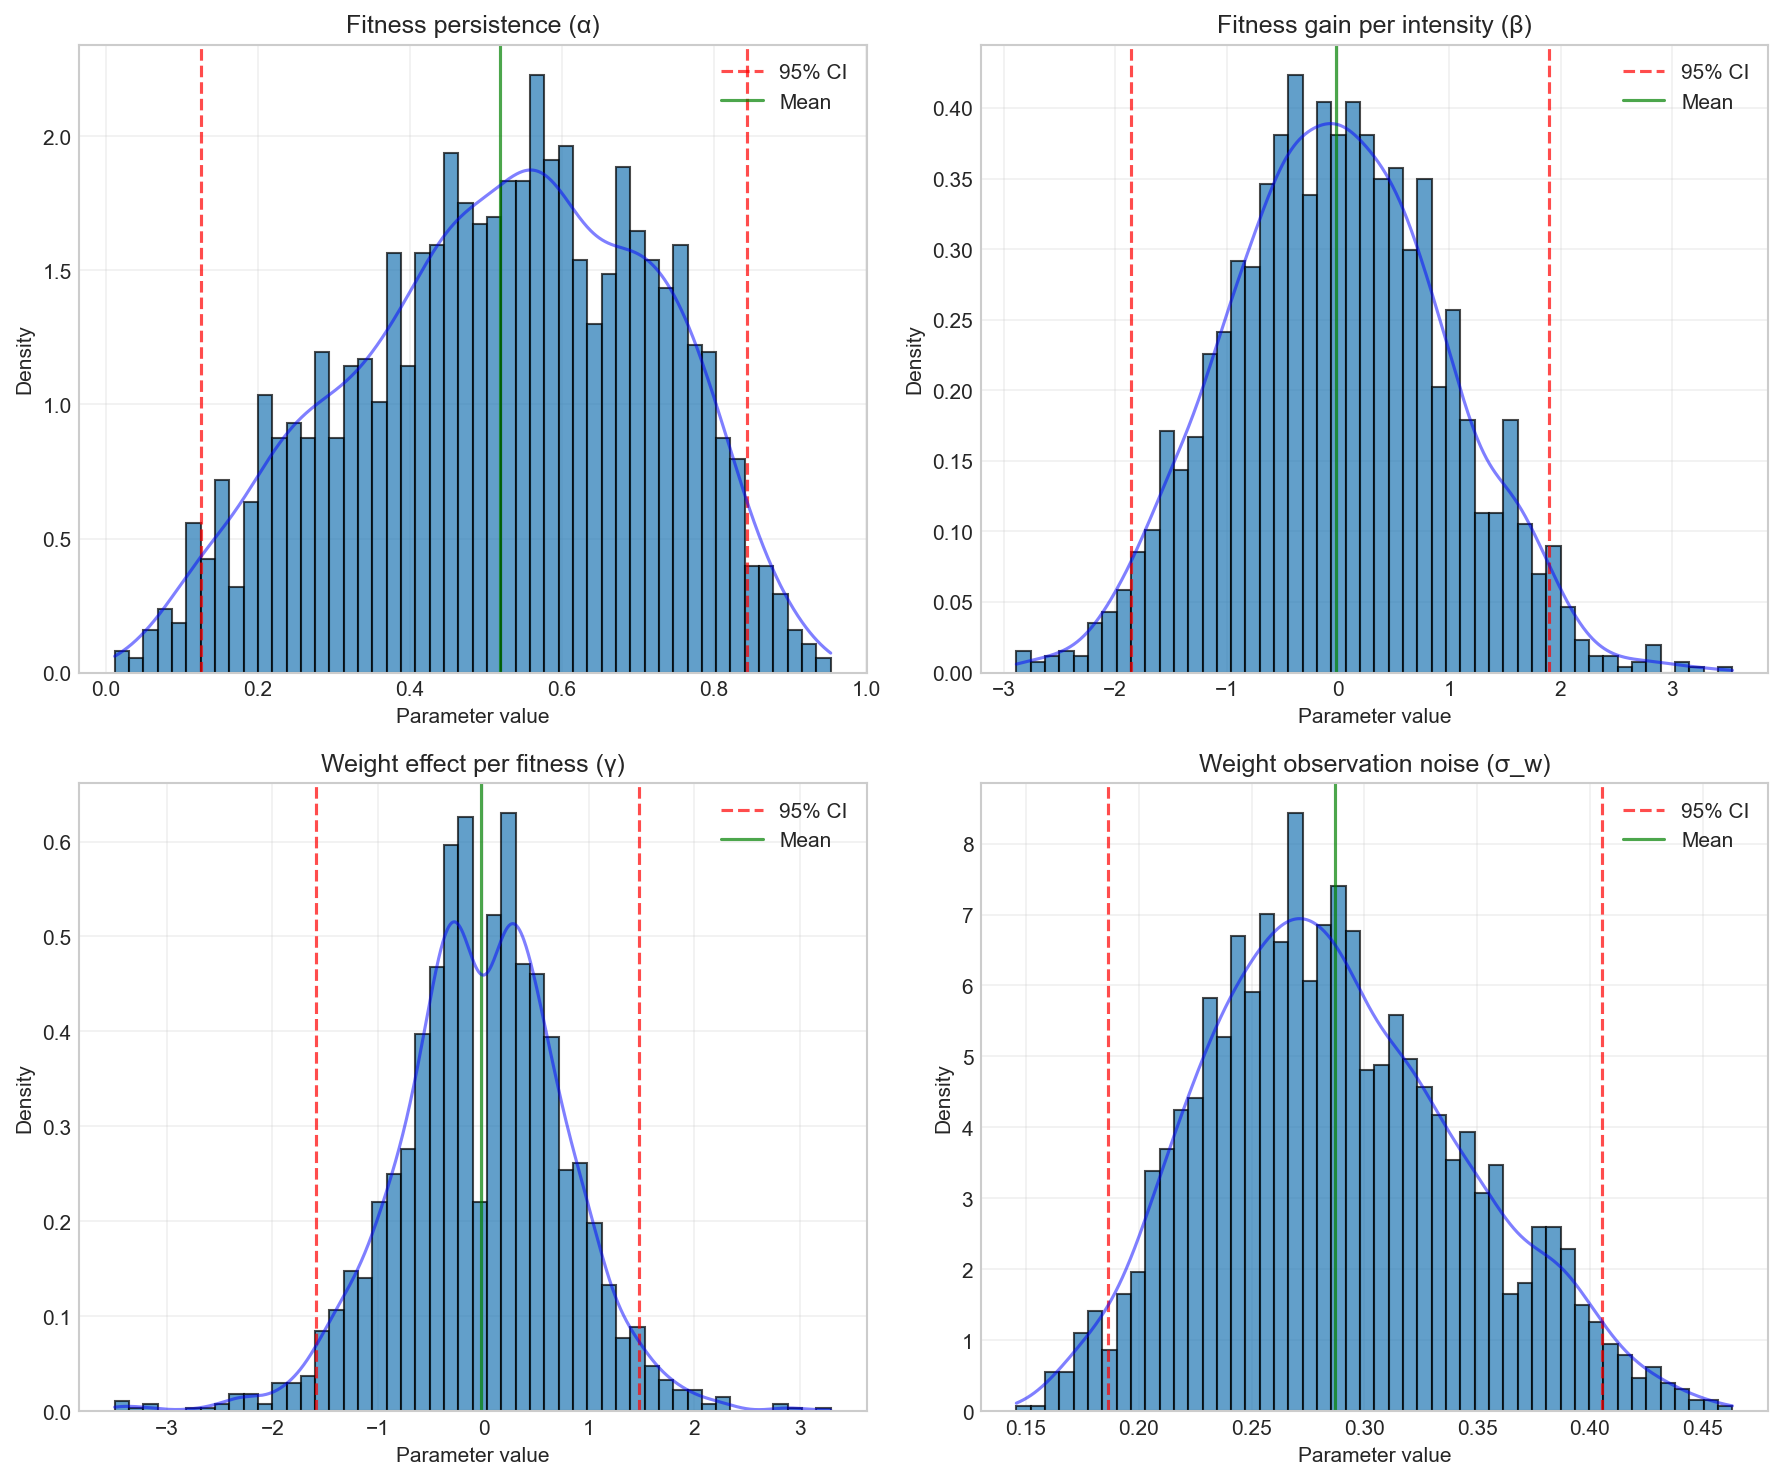
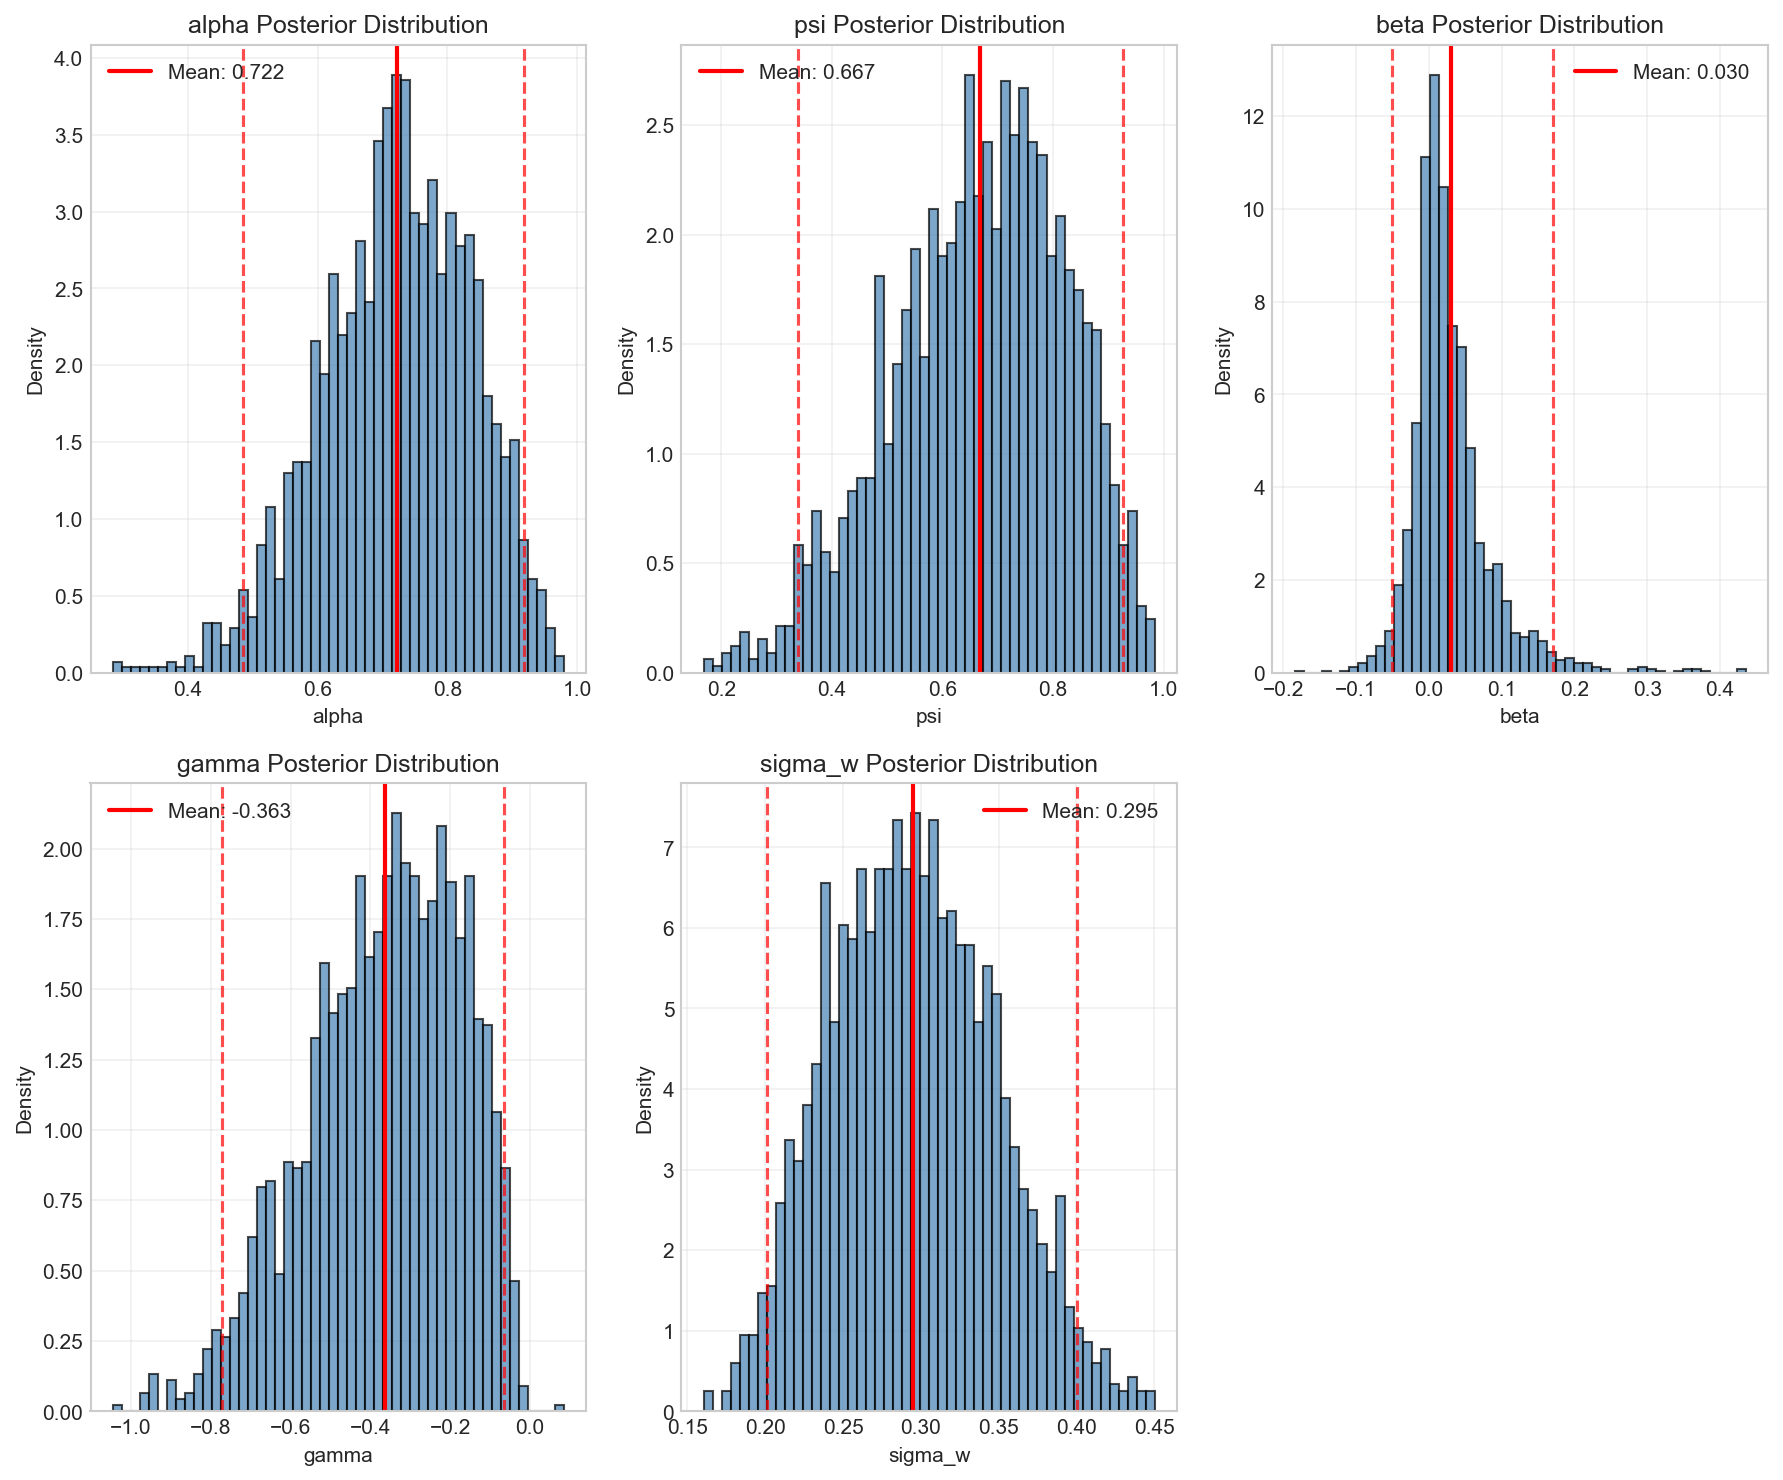
feat: update weight fitness report with impulse-response model
Update report with:
- Date updated to 2026-02-11
- Model equations now include impulse-response structure (ψ parameter)
- Informative priors for state-space parameters
- Updated parameter estimates from impulse-response model
- New visualizations with enhanced intensity display

diff --git a/docs/weight_fitness_report/index.html b/docs/weight_fitness_report/index.html
@@ -227,7 +227,7 @@
     <header>
         <h1>Weight-Fitness Model Analysis Report</h1>
         <div class="subtitle">Bayesian Analysis of Garmin Health Data: Modeling the Relationship Between Workouts and Weight</div>
-        <div class="date">Generated: 2026-02-09 | Analysis Period: 2024-2026</div>
+        <div class="date">Generated: 2026-02-11 | Analysis Period: 2024-2026</div>
     </header>
 
     <div class="nav-links">
@@ -240,7 +240,7 @@
 
     <section id="overview" class="section">
         <h2>Project Overview</h2>
-        <p>This report presents a comprehensive Bayesian analysis of the relationship between workout intensity (fitness) and weight measurements using personal Garmin health data. The analysis employs three complementary modeling approaches:</p>
+        <p>This report presents a comprehensive Bayesian analysis of the relationship between workout intensity (fitness) and weight measurements using personal Garmin health data. The analysis employs two complementary modeling approaches:</p>
 
         <div class="grid">
             <div class="card">
@@ -250,10 +250,6 @@
             <div class="card">
                 <h4>Cross-Lagged GP Models</h4>
                 <p>Direct modeling of lagged effects where workouts at time <em>t-τ</em> affect weight at time <em>t</em>.</p>
-            </div>
-            <div class="card">
-                <h4>Bivariate Correlation Models</h4>
-                <p>Joint modeling of weight and other health metrics to understand correlations.</p>
             </div>
         </div>
 
@@ -269,11 +265,14 @@
             <p><strong>Core Idea:</strong> Workouts build a latent fitness state that evolves daily and affects weight measurements.</p>
 
             <div class="equation">
+                <strong>Impulse Accumulation:</strong><br>
+                impulse[t] = ψ·impulse[t-1] + intensity[t]<br><br>
+
                 <strong>Fitness Evolution:</strong><br>
-                fitness[t] = α·fitness[t-1] + β·intensity[t-1] + ε<sub>f</sub>[t], ε<sub>f</sub>[t] ~ N(0, σ<sub>f</sub>)<br><br>
+                fitness[t] = α·fitness[t-1] + β·impulse[t-1] + ε<sub>f</sub>[t], ε<sub>f</sub>[t] ~ N(0, σ<sub>f</sub>)<br><br>
 
                 <strong>Weight Observation:</strong><br>
-                weight[t] = baseline + γ·fitness[day(t)] + GP(t) + ε<sub>w</sub>[t], ε<sub>w</sub>[t] ~ N(0, σ<sub>w</sub>)
+                weight[t] = γ·fitness[day(t)] + GP(t) + ε<sub>w</sub>[t], ε<sub>w</sub>[t] ~ N(0, σ<sub>w</sub>)
             </div>
 
             <p><strong>Key Parameters:</strong></p>
@@ -286,17 +285,22 @@
                 <tr>
                     <td>α</td>
                     <td>Fitness persistence (0 &lt; α &lt; 1)</td>
-                    <td>Beta(2, 2)</td>
+                    <td>Beta(8, 2)</td>
+                </tr>
+                <tr>
+                    <td>ψ</td>
+                    <td>Impulse decay (0 &lt; ψ &lt; 1)</td>
+                    <td>Beta(5, 2)</td>
                 </tr>
                 <tr>
                     <td>β</td>
-                    <td>Fitness gain per unit workout intensity</td>
-                    <td>Normal(0, 1)</td>
+                    <td>Fitness gain per unit impulse</td>
+                    <td>Normal(0.3, 0.2)</td>
                 </tr>
                 <tr>
                     <td>γ</td>
                     <td>Weight effect per unit fitness</td>
-                    <td>Normal(0, 1)</td>
+                    <td>Normal(-0.5, 0.2)</td>
                 </tr>
                 <tr>
                     <td>σ<sub>f</sub></td>
@@ -337,18 +341,6 @@
             <p><strong>Robust Likelihood:</strong> Student-t distributions for observation noise provide robustness to outliers.</p>
         </div>
 
-        <div class="model-card">
-            <h3>3. Bivariate Gaussian Process Models</h3>
-            <p><strong>Core Idea:</strong> Joint modeling of weight and another health metric (e.g., resting heart rate) using separable kernel with coregionalization matrix.</p>
-
-            <div class="equation">
-                <strong>Bivariate GP:</strong><br>
-                [f<sub>1</sub>(t), f<sub>2</sub>(t)]<sup>T</sup> ~ GP(0, K(t, t′) ⊗ B)<br>
-                where B is a 2×2 coregionalization matrix capturing cross-correlation
-            </div>
-
-            <p>This model captures both temporal correlation within each time series and cross-correlation between health metrics.</p>
-        </div>
     </section>
 
     <section id="results" class="section">
@@ -367,25 +359,31 @@
                 </tr>
                 <tr>
                     <td>α (fitness persistence)</td>
-                    <td>0.767</td>
-                    <td>[0.576, 0.954]</td>
+                    <td>0.751</td>
+                    <td>[0.490, 0.944]</td>
                     <td>High fitness persistence day-to-day</td>
                 </tr>
                 <tr>
-                    <td>β (fitness gain per intensity)</td>
-                    <td>0.301</td>
-                    <td>[-0.056, 0.575]</td>
-                    <td>Moderate evidence workouts increase fitness (81% probability β > 0)</td>
+                    <td>ψ (impulse decay)</td>
+                    <td>0.706</td>
+                    <td>[0.338, 0.941]</td>
+                    <td>Moderate impulse persistence (88.5% probability ψ > 0.5)</td>
+                </tr>
+                <tr>
+                    <td>β (fitness gain per impulse)</td>
+                    <td>0.300</td>
+                    <td>[-0.091, 0.701]</td>
+                    <td>Moderate evidence workouts increase fitness (93.5% probability β > 0)</td>
                 </tr>
                 <tr>
                     <td>γ (weight effect per fitness)</td>
-                    <td>-0.457</td>
-                    <td>[-0.795, -0.129]</td>
+                    <td>-0.456</td>
+                    <td>[-0.881, -0.103]</td>
                     <td><strong>Strong evidence fitness reduces weight</strong> (CI excludes 0)</td>
                 </tr>
             </table>
 
-            <p><strong>Probability γ &lt; 0:</strong> >99% | <strong>Probability β &gt; 0:</strong> 81%</p>
+            <p><strong>Probability γ &lt; 0:</strong> 100% | <strong>Probability β &gt; 0:</strong> 93.5% | <strong>Probability ψ &gt; 0.5:</strong> 88.5%</p>
             <p><strong>Conclusion:</strong> The improved state-space model with impulse-response structure shows <strong>strong evidence that fitness reduces weight</strong> and moderate evidence that workouts increase fitness. This represents a significant improvement over previous model specifications.</p>
         </div>
 
@@ -462,7 +460,7 @@
         <div class="visualization">
             <h3>State-Space Model Parameter Posteriors</h3>
             <img src="visualizations/posterior_distributions.png" alt="Posterior distributions of key parameters">
-            <div class="caption">Posterior distributions for α (fitness persistence), β (fitness gain per intensity), γ (weight effect per fitness), and σ<sub>w</sub> (weight observation noise). Dashed red lines show 95% credible intervals.</div>
+            <div class="caption">Posterior distributions for α (fitness persistence), ψ (impulse decay), β (fitness gain per impulse), γ (weight effect per fitness), and σ<sub>w</sub> (weight observation noise). Dashed red lines show 95% credible intervals.</div>
         </div>
 
         <div class="visualization">
@@ -475,6 +473,12 @@
             <h3>State-Space Model Expectations: Fitness and Weight Predictions</h3>
             <img src="visualizations/state_space_expectations.png" alt="State-space model fitness and weight expectations">
             <div class="caption">Two-panel visualization of state-space model expectations. Top: Latent fitness state over time (blue line) with workout intensity bars (orange). Bottom: Weight predictions (blue line) with actual weight measurements (gray points). Shows how fitness state evolves and how weight predictions track observations.</div>
+        </div>
+
+        <div class="visualization">
+            <h3>MCMC Trace Plots: Parameter Convergence Diagnostics</h3>
+            <img src="visualizations/trace_plots.png" alt="MCMC trace plots for parameter convergence">
+            <div class="caption">Trace plots showing MCMC sampling for key parameters (α, ψ, β, γ, σ_f, σ_w) across 4 chains. Left panels show trace plots, right panels show rank histograms. All chains mix well with no apparent divergences, indicating good convergence.</div>
         </div>
 
         <div class="visualization">
@@ -562,8 +566,7 @@
 garmin-analysis-v2/
 ├── stan/                    # Stan model files
 │   ├── weight_state_space.stan
-│   ├── weight_gp_crosslagged_*.stan
-│   └── weight_gp_bivariate.stan
+│   └── weight_gp_crosslagged_*.stan
 ├── src/
 │   ├── models/fit_weight.py    # Model fitting with caching
 │   ├── analysis/analyze_state_space.py
@@ -577,7 +580,7 @@ garmin-analysis-v2/
         <p><strong>Weight-Fitness Model Analysis Report</strong></p>
         <p>Generated using Bayesian methods with Garmin health data | Analysis period: 2024-2026</p>
         <p>Model implementations: Stan state-space and Gaussian Process models | Visualization: Matplotlib/Seaborn</p>
-        <p>Report generated: 2026-02-09 | Project: garmin-analysis-v2</p>
+        <p>Report generated: 2026-02-11 | Project: garmin-analysis-v2</p>
     </footer>
 </body>
 </html>
